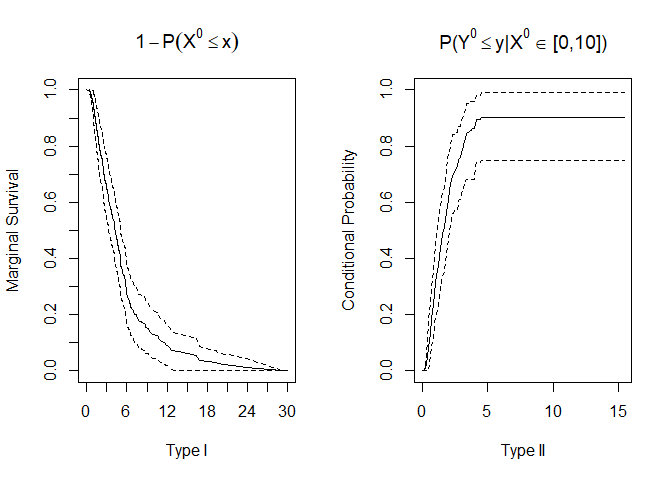
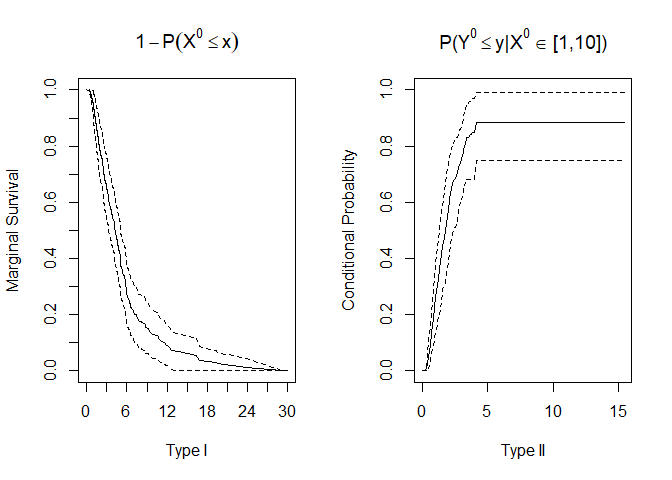
Update Readme

diff --git a/README.md b/README.md
@@ -59,7 +59,7 @@ head(sim_data)
 # Create a bivrecSurv object
 bivrec_object <- with(sim_data, bivrecSurv(id, epi, xij, yij, d1, d2))
 # Plot gap times
-plot(bivrec_object, main="Example", type = c("Type I", "Type II"))
+plot(bivrec_object, main="Example", type = c("Type I", "Type II"), col = c("darkgrey","darkgreen"))
 ```
 
 ![](man/figures/README-BivRecExample-1.png)<!-- -->
@@ -70,21 +70,21 @@ Nonparametric Analysis
 # Apply the nonparametric method of Huang and Wang (2005) and visualize joint, marginal and conditional results
 
 library(BivRec)
-npresult <- bivrecNP(response = bivrec_object, ai=1,
-                u1 = seq(2, 25, 1), u2 = seq(1, 20, 1), conditional = TRUE,
-                given.interval = c(0, 10), level = 0.99)
+npresult <- bivrecNP(response = with(sim_data, bivrecSurv(id, epi, xij, yij, d1, d2)),
+                ai=1, u1 = seq(1, 15, 0.5), u2 = seq(1, 15, 0.5), conditional = TRUE,
+                given.interval = c(1, 10), level = 0.99)
 #> [1] "Estimating joint CDF and marginal survival"
 #> [1] "Estimating conditional cdf with 99% confidence interval using 200 bootstrap samples"
 head(npresult)
 #> 
 #> Joint CDF:
-#>    x y Joint Probability         SE Lower .99 Upper .99
-#> 1 2 1         0.1598075 0.03321294 0.0742566 0.2453583
-#> 2 2 2         0.2097532 0.03725269 0.1137967 0.3057098
-#> 3 2 3         0.2133441 0.03713210 0.1176981 0.3089900
-#> 4 2 4         0.2154721 0.03706672 0.1199946 0.3109496
-#> 5 2 5         0.2181802 0.03700250 0.1228681 0.3134923
-#> 6 2 6         0.2181802 0.03700250 0.1228681 0.3134923
+#>    x   y Joint Probability         SE   Lower .99 Upper .99
+#> 1 1 1.0        0.05900966 0.01967078 0.008341088 0.1096782
+#> 2 1 1.5        0.06086021 0.01995590 0.009457207 0.1122632
+#> 3 1 2.0        0.06179946 0.01994861 0.010415238 0.1131837
+#> 4 1 2.5        0.06179946 0.01994861 0.010415238 0.1131837
+#> 5 1 3.0        0.06179946 0.01994861 0.010415238 0.1131837
+#> 6 1 3.5        0.06179946 0.01994861 0.010415238 0.1131837
 #> 
 #> Marginal Survival:
 #>         Time Marginal Survival           SE Lower .99 Upper .99
@@ -99,17 +99,17 @@ head(npresult)
 #>      Time Conditional Probability  Bootstrap SE Bootstrap Lower .99
 #> 1 0.0000                  0.0000        0.0000                0.00
 #> 2 0.0776                  0.0000        0.0000                0.00
-#> 3 0.1551                  0.0003        0.0003                0.00
-#> 4 0.2327                  0.0084        0.0047                0.00
-#> 5 0.3103                  0.0259        0.0114                0.00
-#> 6 0.3878                  0.0485        0.0184                0.01
+#> 3 0.1551                  0.0000        0.0000                0.00
+#> 4 0.2327                  0.0018        0.0011                0.00
+#> 5 0.3103                  0.0095        0.0038                0.00
+#> 6 0.3878                  0.0224        0.0081                0.01
 #>   Bootstrap Upper .99
 #> 1                0.00
 #> 2                0.00
 #> 3                0.00
-#> 4                0.02
-#> 5                0.06
-#> 6                0.10
+#> 4                0.00
+#> 5                0.02
+#> 6                0.04
 plot(npresult)
 ```
 
@@ -136,7 +136,7 @@ Semiparametric Regression Analysis
 #Use attach as follows or specifiy each vector using the $ operator (sim_data$id, sim_data$epi, etc.)
 
 attach(sim_data)
-plot(x = bivrecSurv(id, epi, xij, yij, d1, d2), by = data.frame(a1, a2), type = c("Type I", "Type II"))
+plot(x = bivrecSurv(id, epi, xij, yij, d1, d2), by = data.frame(a1, a2), type = c("Type I", "Type II"), col = c("darkgrey","darkgreen"))
 #> [1] "a2 not used - either continuous or had more than 6 levels."
 #> [1] "Subjects for plots: 100."
 ```
